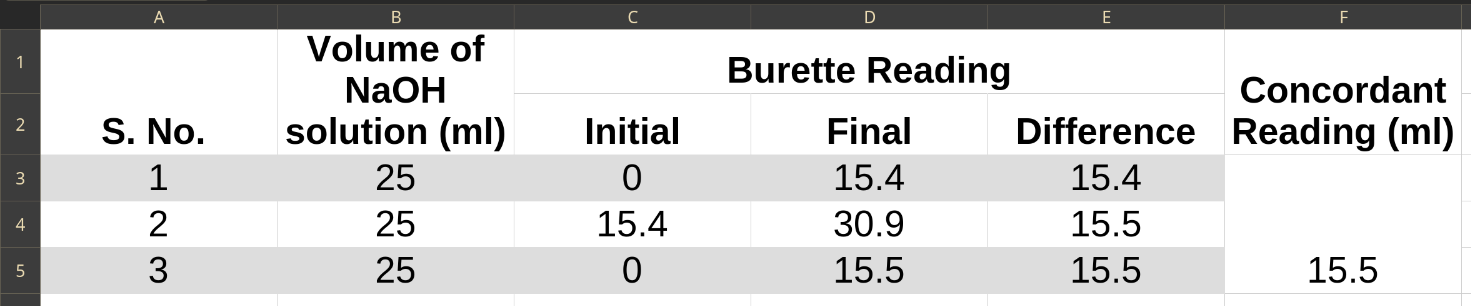
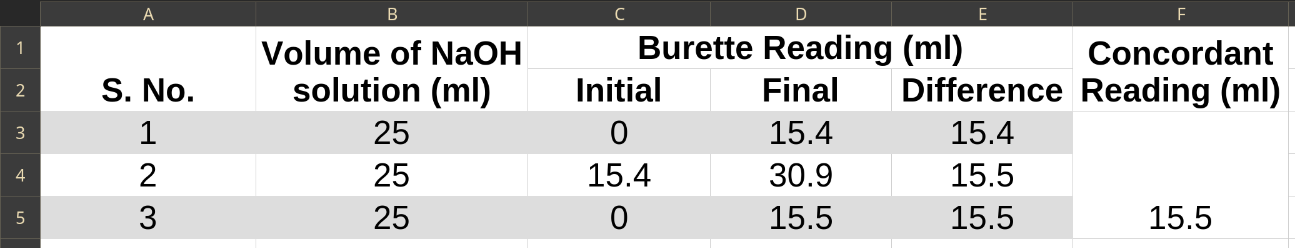
Fixed tables and added index

diff --git a/Practical/Chemistry/04-hardness-of-hard-water.md b/Practical/Chemistry/04-hardness-of-hard-water.md
@@ -10,10 +10,10 @@ Hard water sample, standard EDTA solution, $NH_4Cl - NH_4OH$ buffer solution, EB
 ## Chemical Reaction 
 $\underset{(Ca^{2+}/Mg^{2+})}{M^{2+}} + \underset{\text{Blue}}{EBT} \rightarrow \underset{\text{Wine-red}}{[M-EBT]}$
 
-$\underset{\text{Wine-red}}{[M-EBT]} + \underset{\text{Colorless}}{[M-EDTA]} + \underset{\text{Blue}}{EBT}$
+$\underset{\text{Wine-red}}{[M-EBT]} + \underset{\text{Colorless}}{EDTA} \rightarrow \underset{\text{Colorless}}{[M-EDTA]} + \underset{\text{Blue}}{EBT}$
 
 ## Theory 
-In this complexometric titration, the hard water solution is buffered to $p^H ~ 10$ by adding $NH_4Cl - NH_4OH$ buffer solution. At this pH, the $Ca^{2+}/ Mg^{2+}$ ions present in the hard water solution forms weak compounds with the EBT indicator. The color of [M-EBT] is wine red. During the titration with EDTA solution, EDTA replaces the EBT indicator from [M-EBT] by forming a very stable [M-EDTA] complex. Hence, at the end point of the titration, the EBT indicator remains free in the solution, which imparts its characteristic blue color to the solution. Thus, the color changes from wine-red to blue in this titration. 
+In this complexometric titration, the hard water solution is buffered to $p^H$ ~ $10$ by adding $NH_4Cl - NH_4OH$ buffer solution. At this $pH$, the $Ca^{2+}/ Mg^{2+}$ ions present in the hard water solution forms weak compounds with the EBT indicator. The color of [M-EBT] is wine red. During the titration with EDTA solution, EDTA replaces the EBT indicator from [M-EBT] by forming a very stable [M-EDTA] complex. Hence, at the end point of the titration, the EBT indicator remains free in the solution, which imparts its characteristic blue color to the solution. Thus, the color changes from wine-red to blue in this titration. 
 
 ## Procedure 
 1. Fill up the burette with EDTA solution. 
@@ -28,6 +28,10 @@ In this complexometric titration, the hard water solution is buffered to $p^H ~ 
 Total hardness = $\frac{A \times B \times 1000}{\text{ml of sample}}$  
 $\implies \frac{13.6 \times 0.3 \times 1000}{25}$  
 $\implies 163.2\ ppm$
+
+Here,  
+A = ml of EDTA consumed  
+B = mg of $CaCO_3$ equivalent to 1 ml EDTA 
 
 $Ca$-content = $\frac{13.6 \times 0.6 \times 400.8}{25} = 65.41\ ppm$
 

diff --git a/Practical/Chemistry/0-index.md b/Practical/Chemistry/0-index.md
@@ -1,0 +1,6 @@
+| S.No. | Name of Experiment                 | Page no. | Date of Experiment | Date of Submission |
+| :-------: | ------------------------------------ | :----------: | :--------------------: | :--------------------: |
+| 01    | Titration - $HCl$ vs $NaOH$            | 01-03    | 09/09/25           | 18/09/25           |
+| 02    | Titration - $H_2SO_4$ vs $Na_2CO_3$    | 04-06    | 18/09/25           | 25/09/25           |
+| 03    | Titration - $KMnO_4$ vs Oxalic acid  | 07-09    | 25/09/25           | 26/09/25           |
+| 04    | Titration - hardness of hard water | 10-12    | 08/10/25           |                    |
